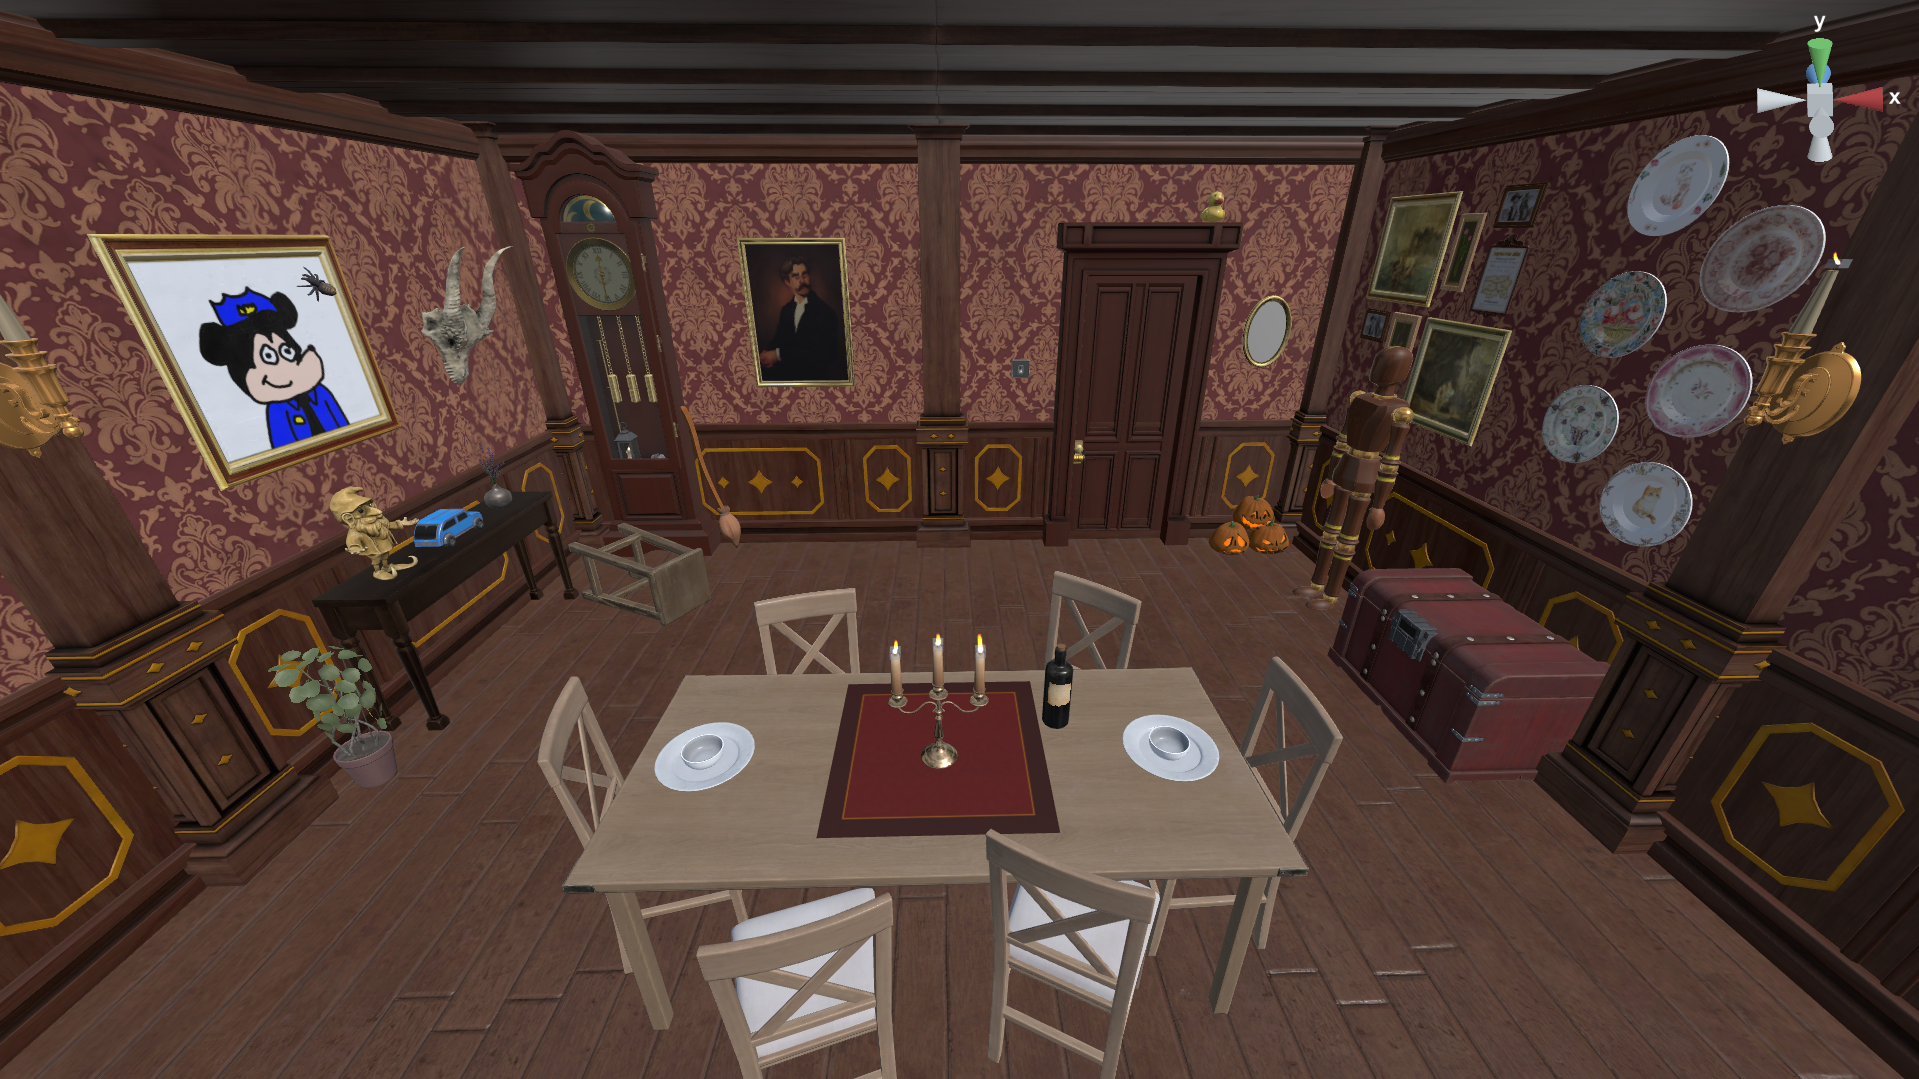
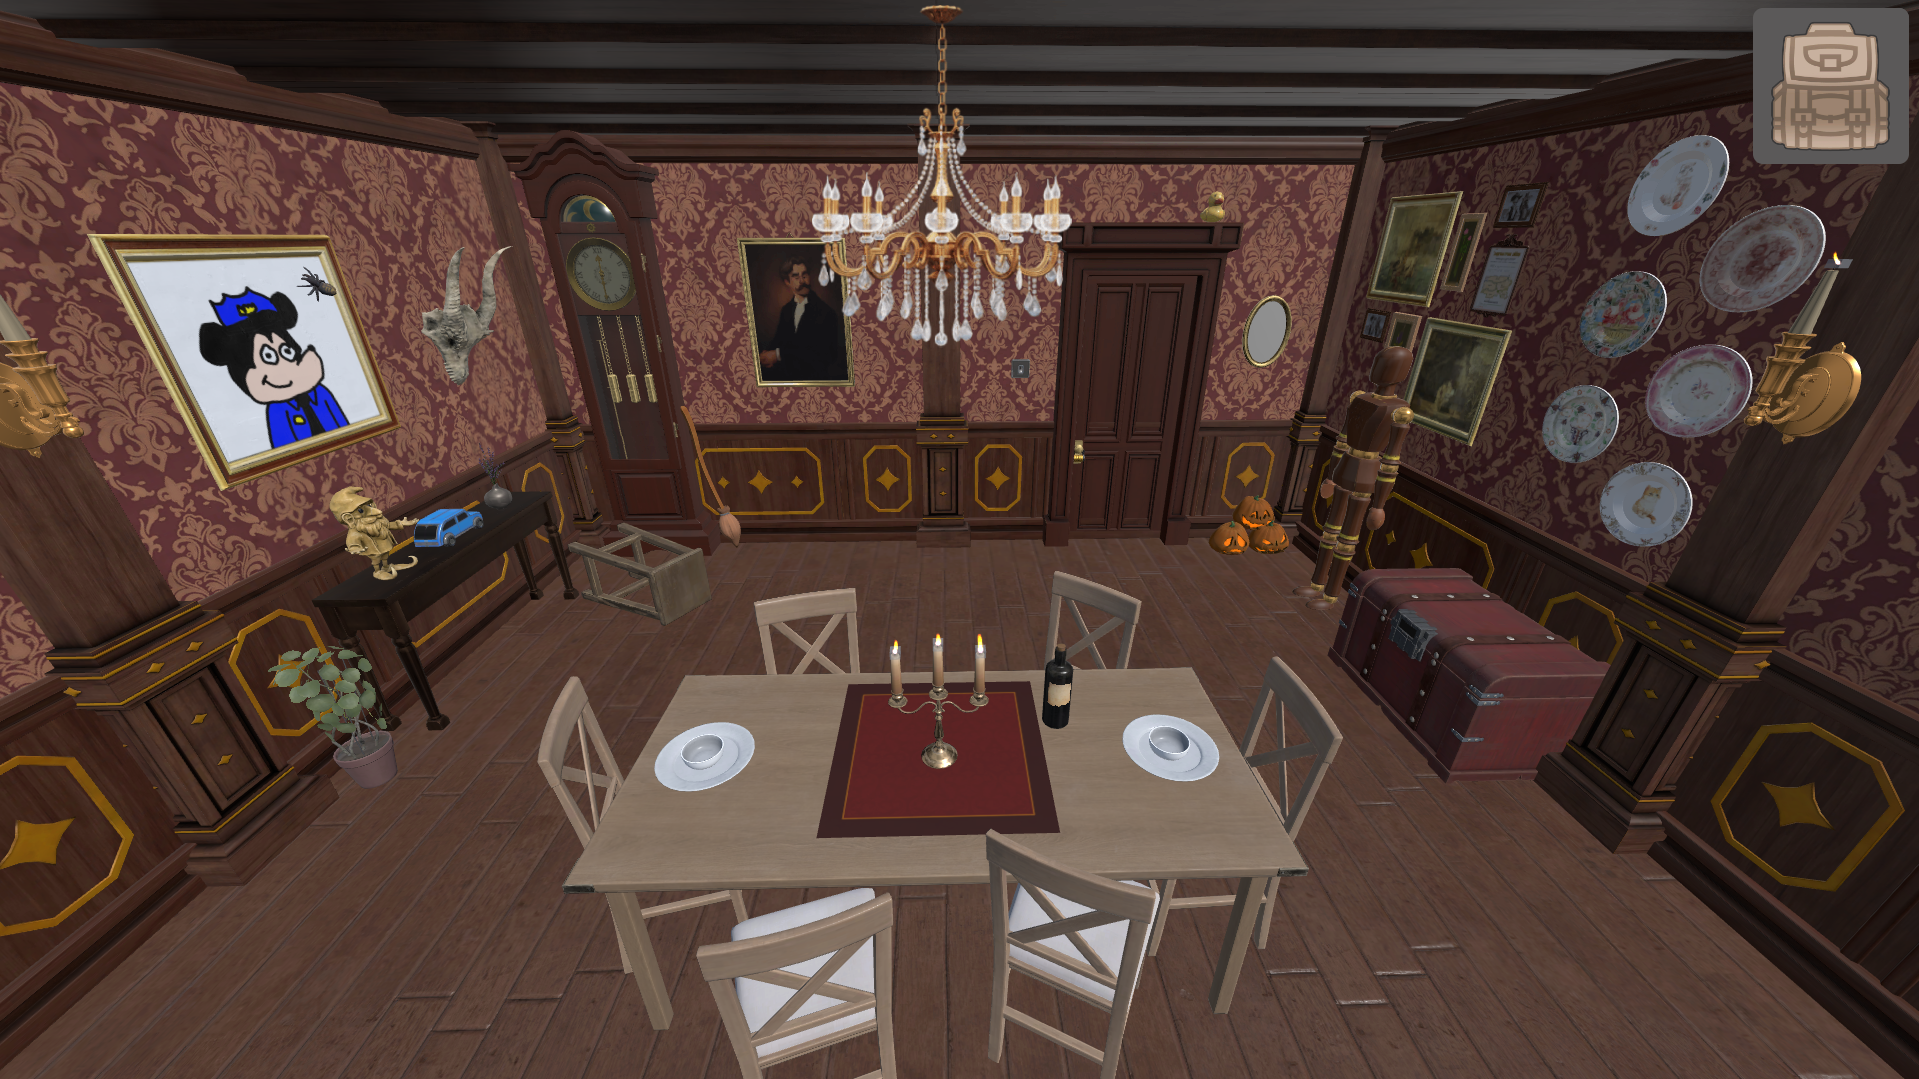
bug fix background

diff --git a/index.html b/index.html
@@ -4,8 +4,9 @@
     <meta charset="utf-8" />
     <meta name="viewport" content="width=device-width, initial-scale=1" />
 
-    <title>Fruits</title>
+    <title>Lucas' Mansion</title>
     <link rel="stylesheet" href="./client/styles/main.css" />
+    <link rel="website icon" href="./favicon2.png">
   </head>
   <body>
     <div id="app"></div>

diff --git a/client/styles/dinner.css b/client/styles/dinner.css
@@ -313,14 +313,15 @@ body {
 
 .inventory {
   position: absolute;
-  background: none;
+  background: #5b5959;
   border: none;
-  padding: 0px;
-  right:0.1%;
-  top:0.1%;
-  max-width: 190px;
+  padding:11.5px;
+  right:1%;
+  top:1%;
+  max-width: 133px;
   height: auto;
   opacity: 0;
+  border-radius: 10px;
 }
 
 .inventory:hover {
